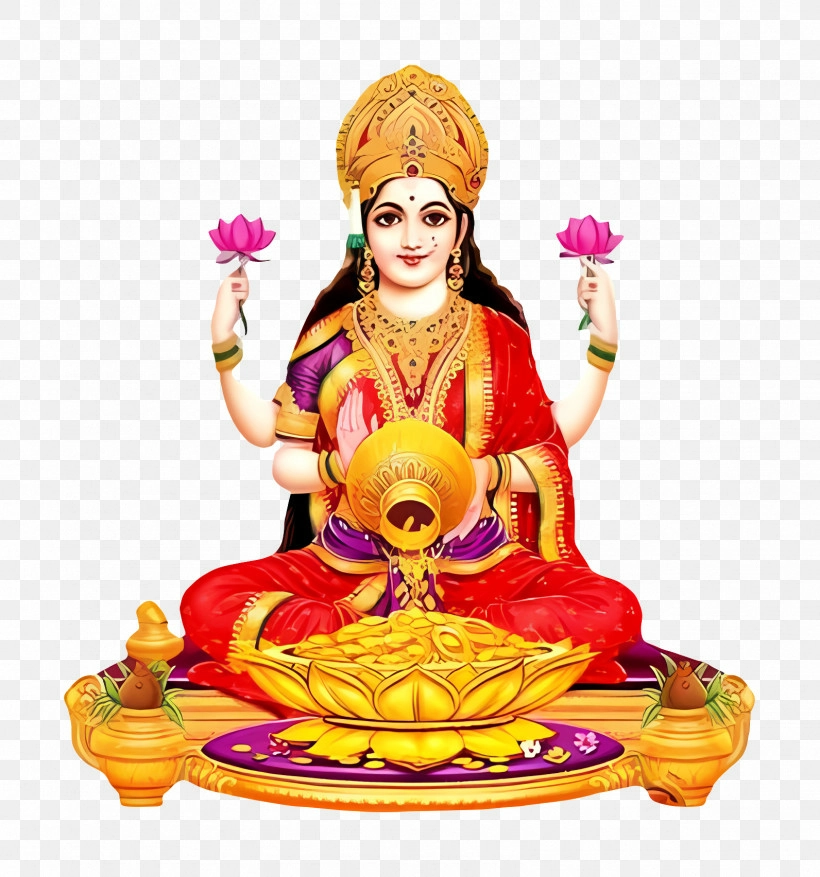
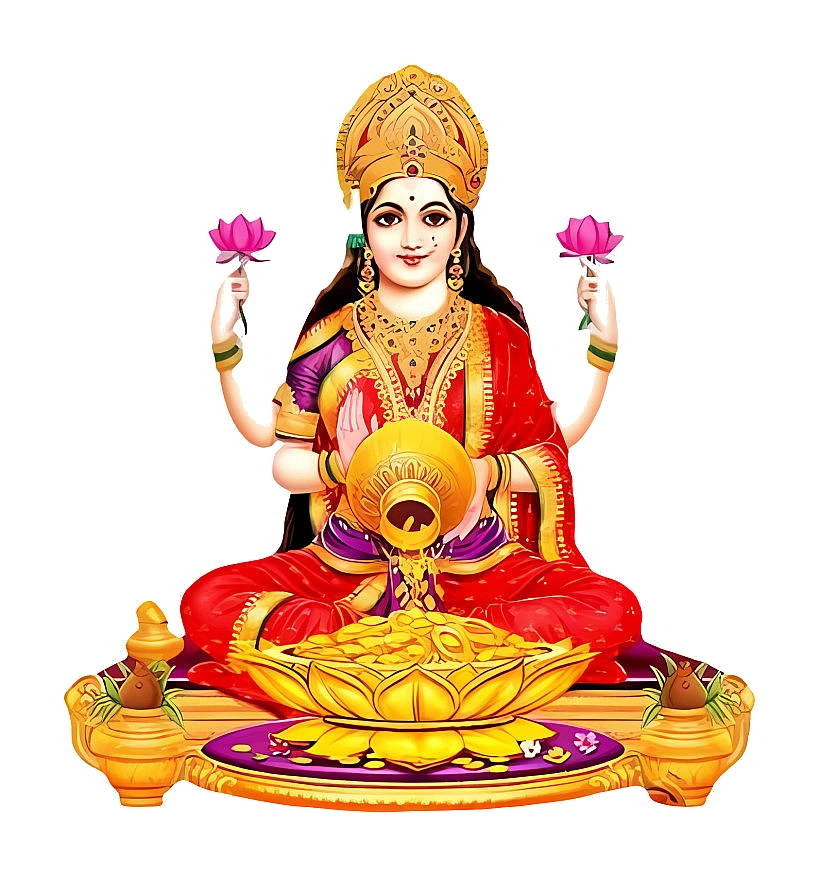
Optimized Images added

diff --git a/index.html b/index.html
@@ -267,7 +267,7 @@ window.dataLayer = window.dataLayer || [];
 			</a> 
 
 			<a href="https://anvaybk.github.io/stotra/pages/shiv-tandav-stotra.html" class="menu-item">
-				<img src="images/Shiv-Tandav-Stotra.jpg" alt="Shiv Tandav Stotra"> 
+				<img src="images/Shiv-Tandav-Stotra.webp" alt="Shiv Tandav Stotra"> 
 				<span> शिवतांडव स्तोत्र </span>
 			</a>
 			
@@ -287,13 +287,13 @@ window.dataLayer = window.dataLayer || [];
 			</a>
 
 			<a href="https://anvaybk.github.io/stotra/pages/durga-stotra.html" class="menu-item">  
-				<img src="images/Durga-Devi-Menu.jpg" alt="Durga Devi Stotra"> 
-				<span>  दुर्गा स्तोत्र </span>
+				<img src="images/Durga-Devi-Menu.webp" alt="Durga Devi Stotra"> 
+				<span> दुर्गा स्तोत्र </span>
 			</a> 
 		
 			<a href="https://anvaybk.github.io/stotra/pages/mohiniraj-stotra.html" class="menu-item"> 
 				<img src="images/Shree-Mohini-Raj-Newasa.jpg" alt="MohiniRaj Newasa"> 
-				<span>  मोहिनीराज स्तोत्र </span>
+				<span> मोहिनीराज स्तोत्र </span>
 			</a>
 
 			<a href="https://anvaybk.github.io/stotra/pages/mahishasurmardini.html" class="menu-item">  
